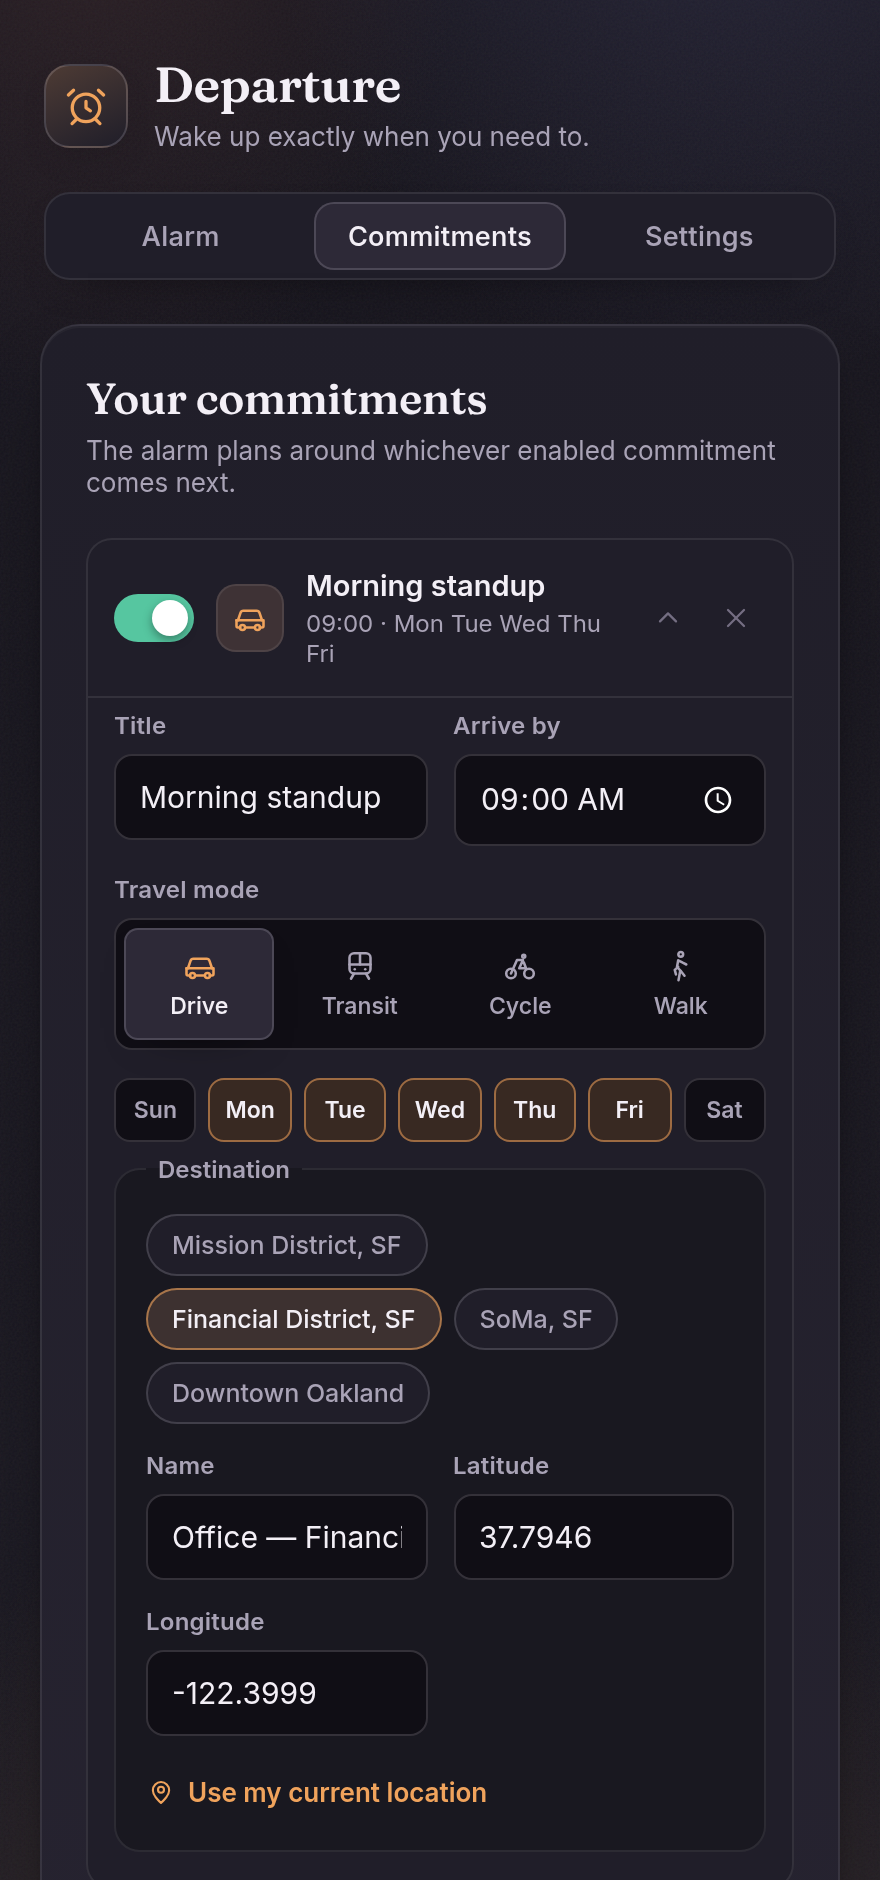
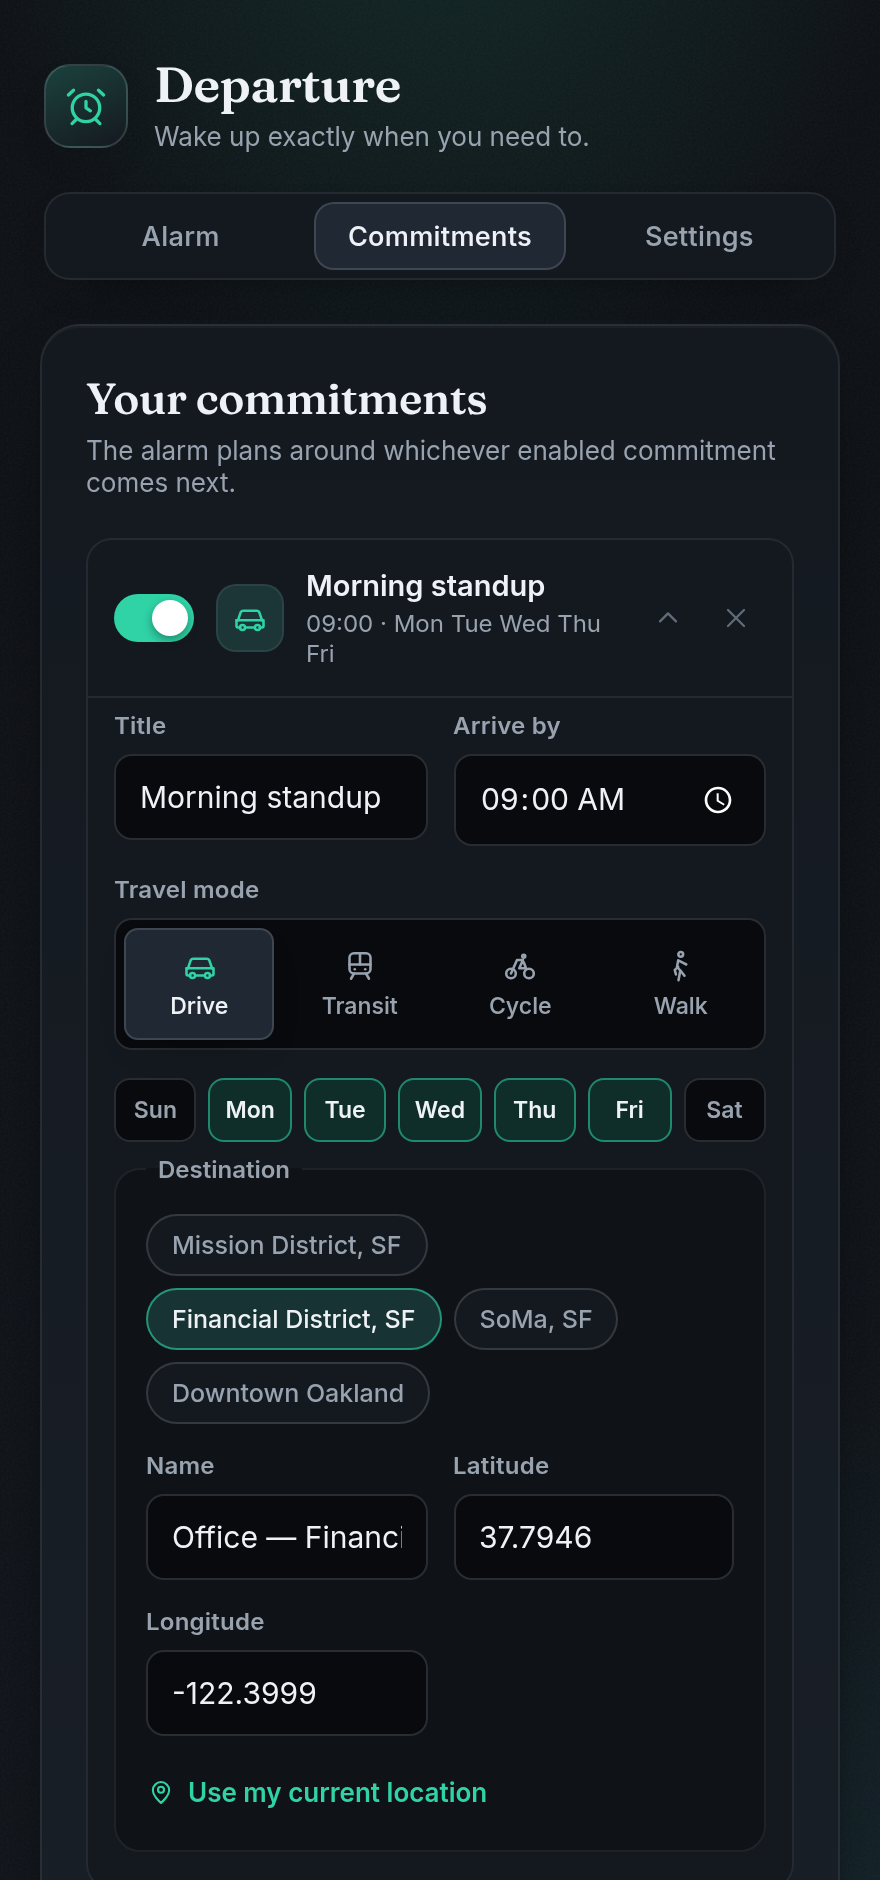
Reskin to a professional emerald-teal palette on cool graphite
Replace the warm amber/dawn scheme with a disciplined, product-grade look:

- Single signature accent — emerald-teal — that also carries the product's
  meaning ("on time / go"). No rainbow of hues.
- Cool graphite canvas (neutral, not plum) with a quiet teal wash and film
  grain; phase is a tight walk within the teal→green family with calm slate
  at rest, so the UI reads as one composed system.
- Cool light ("paper") theme retuned to match; traffic severity keeps a
  legible gold/rose warning scale (no orange brand colour).
- Wake "breathe" glow recoloured to the phase accent.

Keeps the crafted Fraunces serif, line-icon set, and layout. Refresh docs
screenshots. Verified: typecheck, 33 tests, build, and a real-browser pass
across phases and both themes with no console errors.

Claude-Session: https://claude.ai/code/session_01652Js1XFDCxB5uSmPMgfSc

diff --git a/src/styles/global.css b/src/styles/global.css
@@ -1,37 +1,37 @@
 /*
  * Departure — visual language
- * A warm "night → dawn" palette: a cool twilight sky up top settling into a
- * sunrise glow at the horizon. Fraunces (a soft, optical serif) carries the
- * times so the app feels written, not generated; Inter handles the interface.
- * Colour is used with restraint — one warm accent, plus a phase hue that walks
- * from night blue to sunrise amber to morning green as your day begins.
+ * A composed, cool-graphite canvas with one disciplined signature accent:
+ * emerald-teal, which doubles as the product's meaning — "on time / go". No
+ * rainbow of hues; phase is expressed as a tight walk within the teal→green
+ * family, with a calm slate at rest. Fraunces (a soft optical serif) carries
+ * the times so the app feels authored, not generated; Inter runs the interface.
  */
 
 :root {
-  /* Twilight surfaces */
-  --bg: #17151d;
-  --bg-2: #1b1922;
-  --ink: #100e15; /* deepest, for insets */
-  --surface: #201e29;
-  --surface-2: #262330;
-  --surface-3: #2d2937;
-  --hair: rgba(244, 239, 247, 0.09);
-  --hair-strong: rgba(244, 239, 247, 0.16);
+  /* Cool graphite surfaces */
+  --bg: #0d1014;
+  --bg-2: #10141a;
+  --ink: #080a0d; /* deepest, for insets */
+  --surface: #141920;
+  --surface-2: #191f27;
+  --surface-3: #202834;
+  --hair: rgba(233, 240, 247, 0.08);
+  --hair-strong: rgba(233, 240, 247, 0.15);
 
-  /* Warm neutrals for text */
-  --text: #f3eff6;
-  --text-dim: #a9a3b6;
-  --text-faint: #746e82;
+  /* Cool neutrals for text */
+  --text: #eef2f6;
+  --text-dim: #99a3b0;
+  --text-faint: #616c79;
 
-  /* Sunrise accent */
-  --accent: #f0a35c;
-  --accent-2: #e67e68;
+  /* Emerald-teal signature accent */
+  --accent: #2fd3a6;
+  --accent-2: #29b7c4;
 
-  --good: #56c6a0;
-  --warn: #f0b45c;
-  --hot: #eb7074;
+  --good: #2fd3a6;
+  --warn: #e4c162;
+  --hot: #ef6f81;
 
-  --ring-track: rgba(244, 239, 247, 0.08);
+  --ring-track: rgba(233, 240, 247, 0.07);
 
   --radius: 20px;
   --radius-sm: 13px;
@@ -45,39 +45,39 @@
   --font-ui: "Inter Variable", system-ui, -apple-system, "Segoe UI", Roboto, sans-serif;
   --font-display: "Fraunces Variable", "Fraunces", Georgia, "Times New Roman", serif;
 
-  --phase: #9aa0e0;
-  --phase-2: #7b7fd4;
+  --phase: #5fb9c6;
+  --phase-2: #4fa6c2;
 
   color-scheme: dark;
 }
 
 @media (prefers-color-scheme: light) {
   :root {
-    --bg: #f7f2ea;
-    --bg-2: #f1eae0;
-    --ink: #efe7db;
-    --surface: #fffdf9;
-    --surface-2: #faf5ee;
-    --surface-3: #f3ece1;
-    --hair: rgba(48, 34, 24, 0.1);
-    --hair-strong: rgba(48, 34, 24, 0.18);
+    --bg: #f2f5f8;
+    --bg-2: #eaeef3;
+    --ink: #e6ebf1;
+    --surface: #ffffff;
+    --surface-2: #f7f9fc;
+    --surface-3: #eef2f7;
+    --hair: rgba(20, 30, 45, 0.09);
+    --hair-strong: rgba(20, 30, 45, 0.16);
 
-    --text: #241f2b;
-    --text-dim: #6a6472;
-    --text-faint: #9a93a0;
+    --text: #131922;
+    --text-dim: #59636f;
+    --text-faint: #929ba7;
 
-    --accent: #d9823f;
-    --accent-2: #cf6249;
+    --accent: #0fa384;
+    --accent-2: #0f92a6;
 
-    --good: #2f9e7c;
-    --warn: #cc8a2c;
-    --hot: #d1585c;
+    --good: #0fa384;
+    --warn: #bf931f;
+    --hot: #d1566a;
 
-    --ring-track: rgba(48, 34, 24, 0.1);
+    --ring-track: rgba(20, 30, 45, 0.1);
 
-    --shadow: 0 1px 0 rgba(255, 255, 255, 0.6) inset,
-      0 20px 40px -26px rgba(80, 55, 30, 0.35), 0 3px 10px -6px rgba(80, 55, 30, 0.2);
-    --shadow-soft: 0 10px 26px -16px rgba(80, 55, 30, 0.28);
+    --shadow: 0 1px 0 rgba(255, 255, 255, 0.7) inset,
+      0 20px 40px -26px rgba(30, 45, 65, 0.28), 0 3px 10px -6px rgba(30, 45, 65, 0.16);
+    --shadow-soft: 0 10px 26px -16px rgba(30, 45, 65, 0.22);
 
     color-scheme: light;
   }
@@ -103,16 +103,15 @@ body {
   text-rendering: optimizeLegibility;
 }
 
-/* Night sky settling into a dawn glow at the horizon. Static and intentional. */
+/* A quiet, composed wash — a faint teal light from above, nothing showy. */
 body::before {
   content: "";
   position: fixed;
   inset: 0;
   z-index: -2;
   background:
-    radial-gradient(125% 78% at 50% 116%, color-mix(in srgb, var(--accent) 22%, transparent), transparent 56%),
-    radial-gradient(90% 55% at 82% -12%, rgba(123, 127, 212, 0.16), transparent 60%),
-    radial-gradient(70% 45% at 10% -6%, rgba(230, 126, 104, 0.1), transparent 62%),
+    radial-gradient(95% 60% at 50% -12%, color-mix(in srgb, var(--accent) 14%, transparent), transparent 58%),
+    radial-gradient(80% 60% at 100% 108%, color-mix(in srgb, var(--accent-2) 10%, transparent), transparent 60%),
     linear-gradient(180deg, var(--bg), var(--bg-2));
 }
 
@@ -263,25 +262,26 @@ body::after {
   transition: background 0.7s ease;
 }
 
+/* Phase = a tight walk within the cool teal→green family, slate at rest. */
 .phase-sleep {
-  --phase: #9aa0e0;
-  --phase-2: #7b7fd4;
+  --phase: #6bb6c4;
+  --phase-2: #5aa0c0;
 }
 .phase-wake {
-  --phase: #f2b45c;
-  --phase-2: #ec8a5c;
+  --phase: #34d6a6;
+  --phase-2: #2ec2bd;
 }
 .phase-prep {
-  --phase: #ec8264;
-  --phase-2: #f2a96c;
+  --phase: #2dc3c0;
+  --phase-2: #33cfa2;
 }
 .phase-leave {
-  --phase: #4fc2a0;
-  --phase-2: #6fd0b0;
+  --phase: #2fd39c;
+  --phase-2: #45d9b4;
 }
 .phase-enroute {
-  --phase: #948eaa;
-  --phase-2: #726c82;
+  --phase: #808d99;
+  --phase-2: #626f7c;
 }
 
 /* ---------- Radial dial ---------- */
@@ -355,10 +355,10 @@ body::after {
 @keyframes breathe {
   0%,
   100% {
-    box-shadow: var(--shadow), 0 0 0 0 color-mix(in srgb, var(--warn) 34%, transparent);
+    box-shadow: var(--shadow), 0 0 0 0 color-mix(in srgb, var(--phase) 40%, transparent);
   }
   50% {
-    box-shadow: var(--shadow), 0 0 34px -6px color-mix(in srgb, var(--warn) 34%, transparent);
+    box-shadow: var(--shadow), 0 0 36px -6px color-mix(in srgb, var(--phase) 40%, transparent);
   }
 }
 
